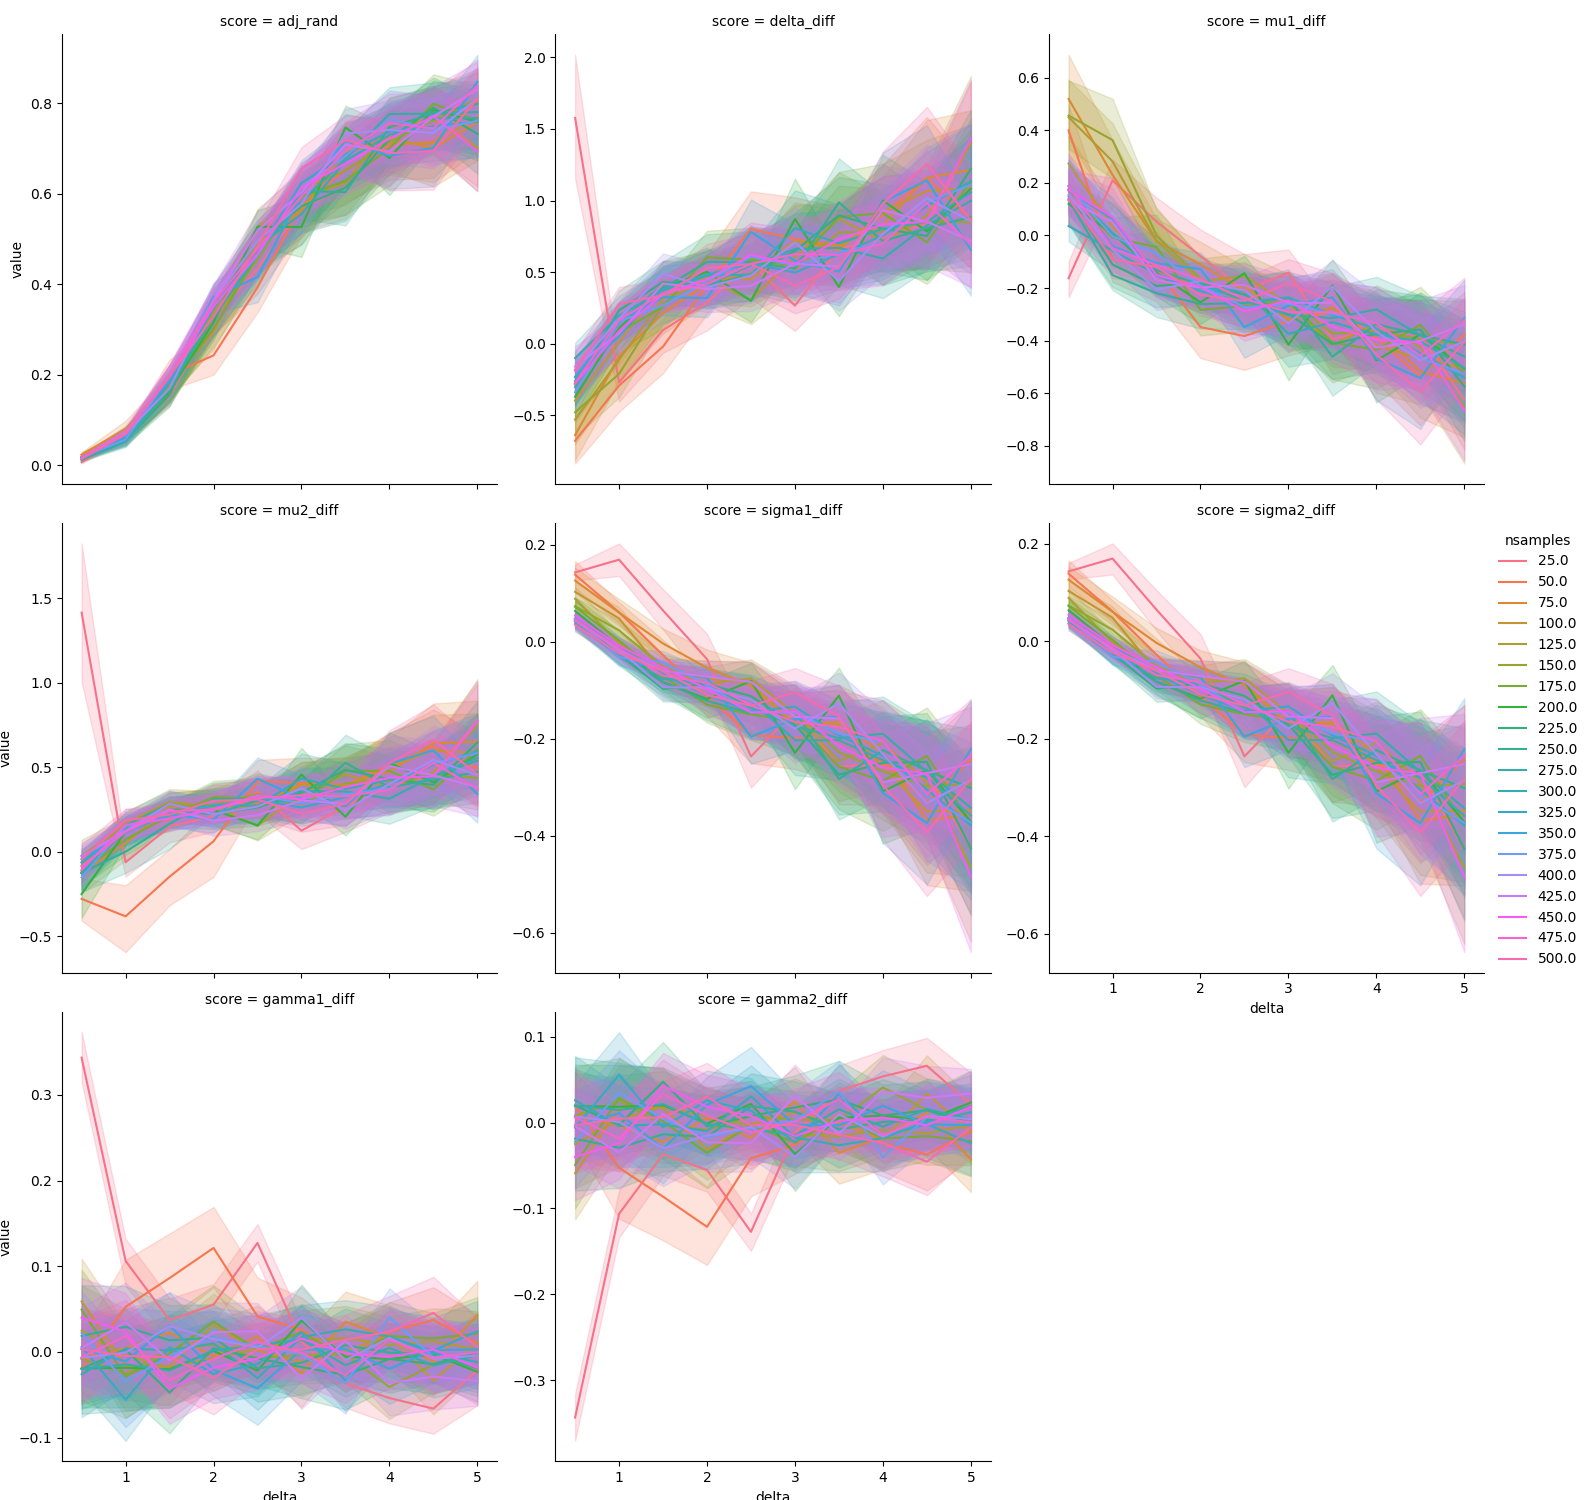
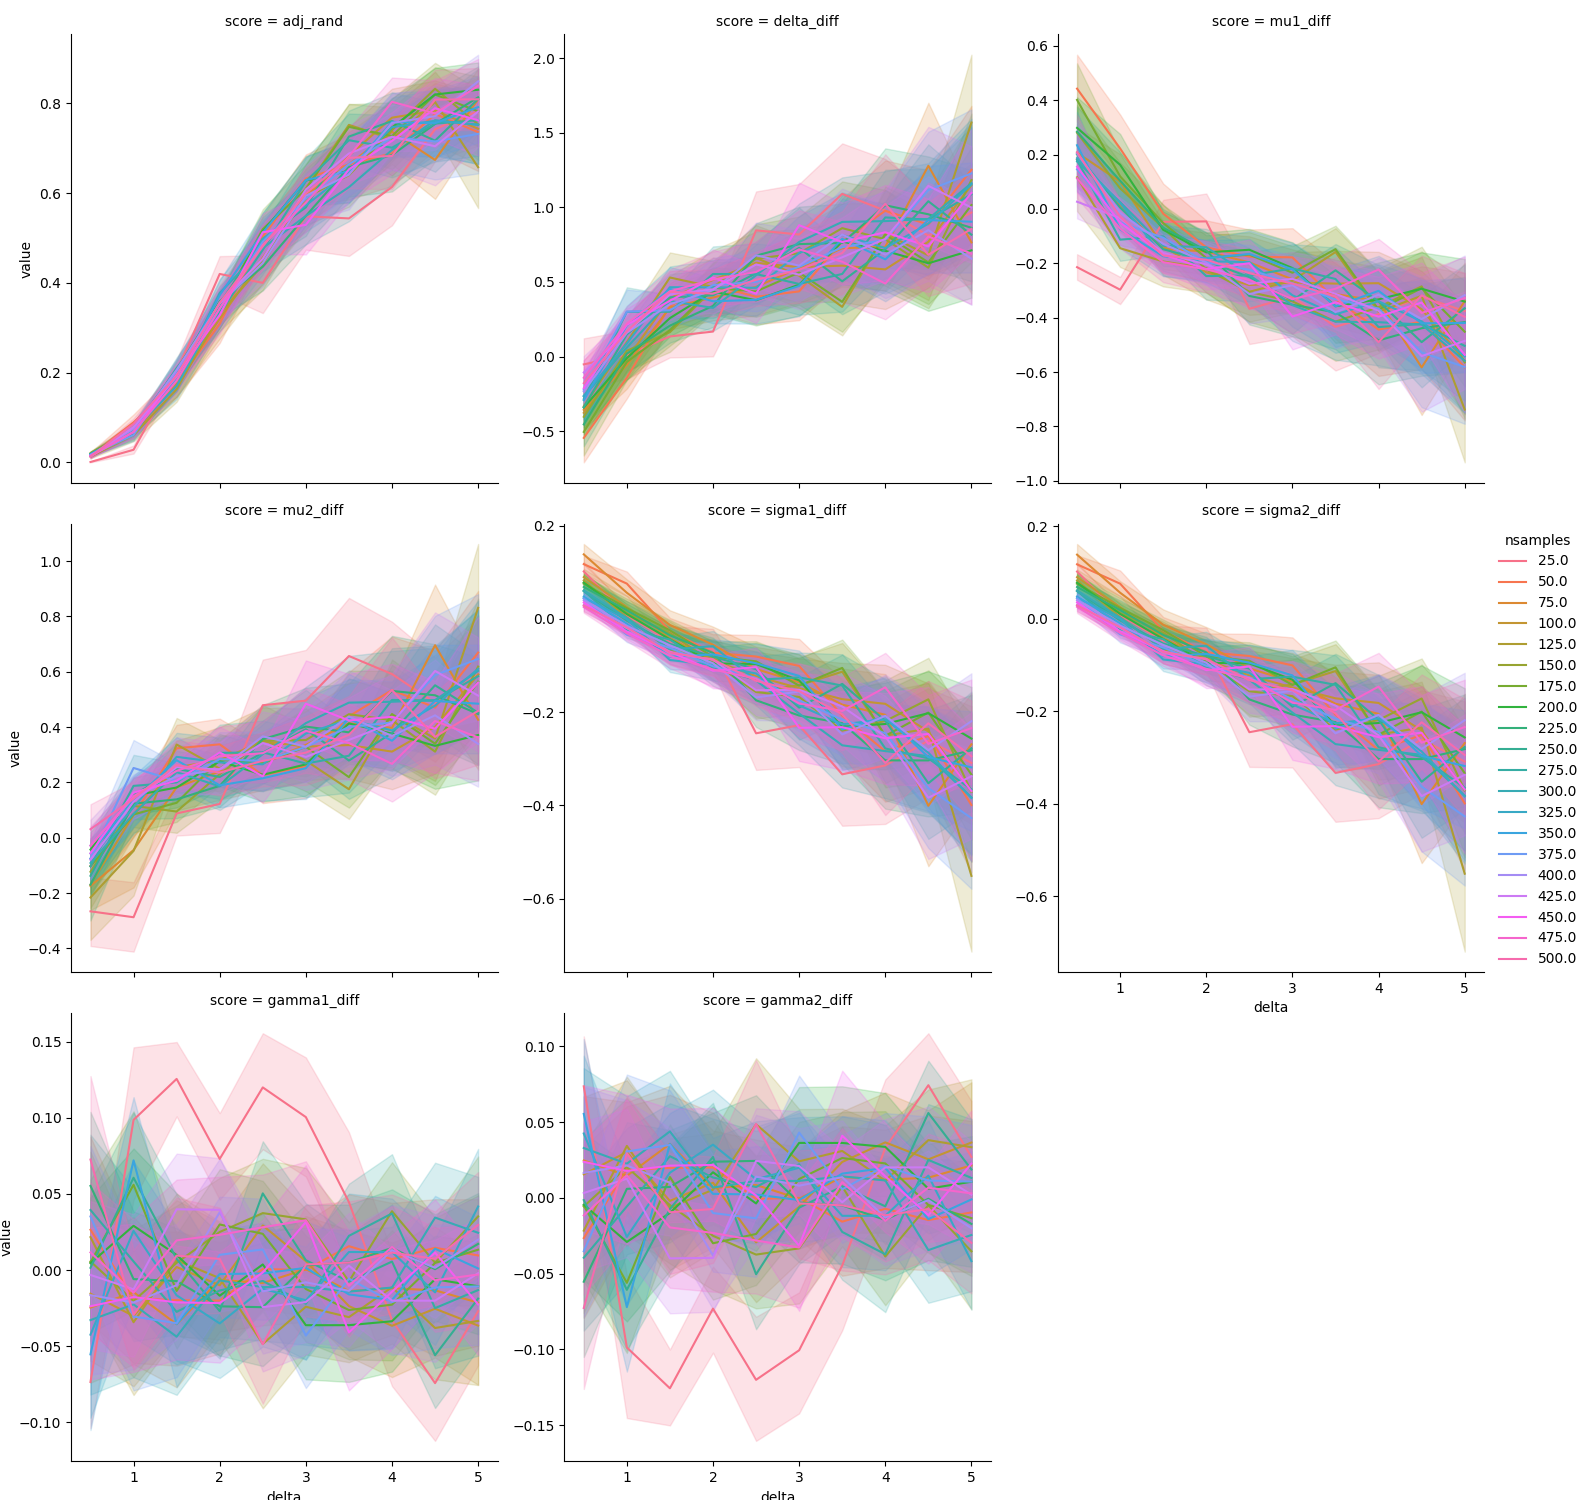
feat(results, readme): add results, add readme

diff --git a/readme.md b/readme.md
@@ -1,0 +1,14 @@
+# 关于EM算法的模拟实验
+
+
+对于来自两正态总体的样本，通过em算法估计每个样本属于的组别，进而估计每一组的参数：均值和方差。
+
+目的：探索EM算法对于盲态数据参数估计的准确性。
+
+探索的条件：
+
+* 样本量(nsamples)
+* 组件差异(delta)
+* 是否估计先验分类的参数(estimated_gamma, freeze_gamma)
+* 初始化的准确性(true_init, random_init)
+* 估计方差的模式(equal_var, noequal_var, freeze_var)
